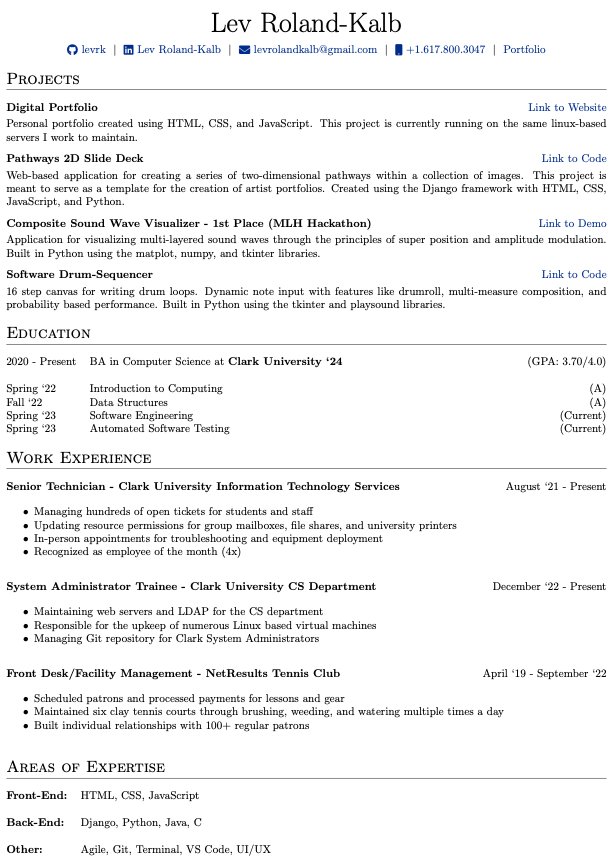
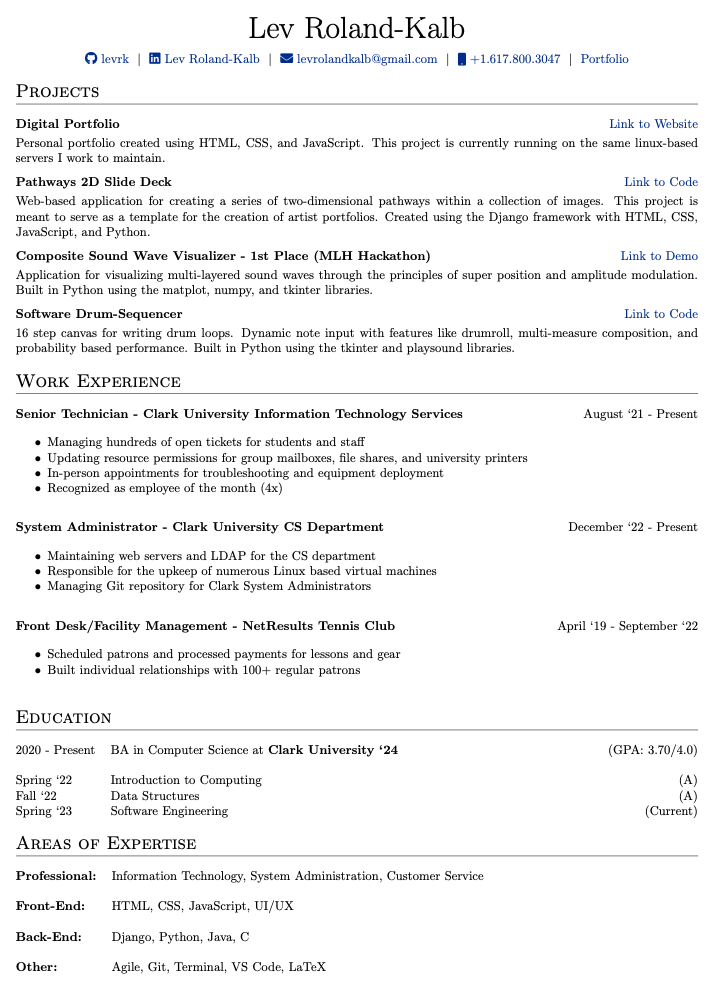
updating skills and resume

diff --git a/main.html b/main.html
@@ -32,13 +32,15 @@
 
                         <div class="content" id="bio"> 
                                 <h2>Hello, my name is Lev</h2><br>
-                                I am a student at Clark University<br><br>
-                                with Full-Stack experience, and a passion <br><br>
-                                for software development.<br><br><br>
+                                I am a student at Clark University with Full-Stack experience, <br><br>
+                                and a passion for software development.<br><br><br>
+
+                                I have worked in Information Technology as a technician for the past 2 years. <br><br>
+                                I was also recently hired as a System Administrator for my school's CS department.<br><br><br>
+
                                 I have experience working on independent projects,<br><br>
                                 competitive hackathons, and collaborative teams.<br><br>
-                                Outside of programming, I am passionate about<br><br>
-                                music, design, and gaming.
+                                Outside of programming, I am passionate about music, design, and gaming.
                         </div>
 
                         <div class="content" id="links"> 
@@ -95,7 +97,8 @@
                                 <a class="project-link" href="https://devpost.com/software/lev-roland-kalb">Demo</a>
                         </div>
 
-                        <div class="content project" id="project3"> 
+                        <div class="content project" id="project3">
+                                
                                 <img class="project-img" src="files/sequencer.png"></img>
                                 <br>
                                 16 step canvas for writing drum loops.<br><br> 
@@ -132,9 +135,23 @@
                         </div>
 
                         <div class="content" id="skills">
-                                
+                                <div id="other" class="skill-section">
+                                        <h2 class="skill-section-heading"> General: </h1>
+                                        <div id="IT" class="skill two">
+                                                <span>IT</span>
+                                        </div>
+                                        <div id="Systems" class="skill two">
+                                                <span>Systems</span>
+                                        </div>
+                                        <div id="Git" class="skill one">
+                                                <span>Git</span>
+                                        </div>
+                                        <div id="Agile" class="skill lt">
+                                                <span>Agile</span>
+                                        </div>
+                                        </div>
                                 <div id="front-end" class="skill-section">
-                                <h2 class="skill-section-heading"> Front-End</h1>
+                                <h2 class="skill-section-heading"> Front-End:</h1>
                                 <div id="html" class="skill one">
                                         <span>HTML</span>
                                 </div>
@@ -146,7 +163,7 @@
                                 </div>
                                 </div>
                                 <div id="back-end" class="skill-section">
-                                <h2 class="skill-section-heading"> Back-End</h1>
+                                <h2 class="skill-section-heading"> Back-End:</h1>
                                 <div id="Python" class="skill two">
                                         <span>Python</span>
                                 </div>
@@ -160,18 +177,7 @@
                                         <span>C</span>
                                 </div>
                                 </div>
-                                <div id="other" class="skill-section">
-                                <h2 class="skill-section-heading"> Other</h1>
-                                <div id="Agile" class="skill lt">
-                                        <span>Agile</span>
-                                </div>
-                                <div id="Git" class="skill one">
-                                        <span>Git</span>
-                                </div>
-                                <div id="UI/UX" class="skill one">
-                                        <span>UI/UX</span>
-                                </div>
-                                </div>
+                                
                         </div>
 
 
